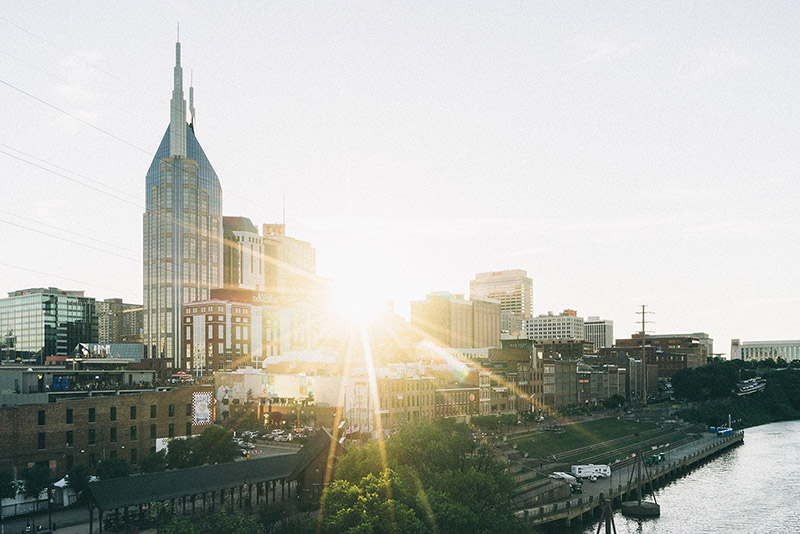
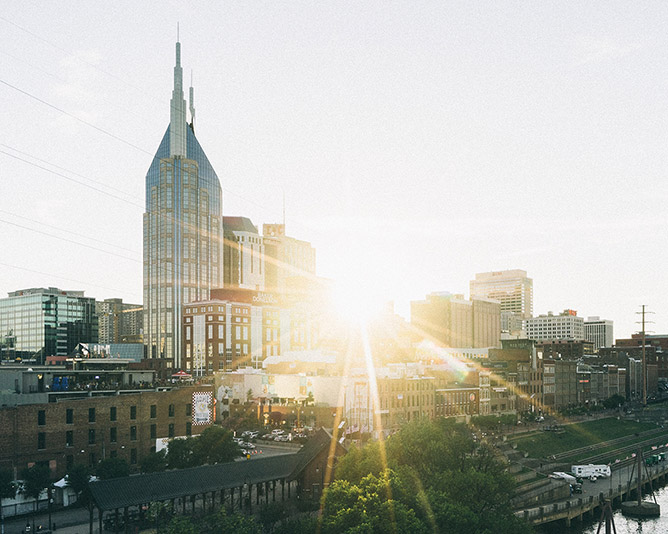
add media queries

diff --git a/index.html b/index.html
@@ -46,30 +46,31 @@
     </header>
 
     <section id="reasons">
-        <h3 class="left">Triage, reproduction, and remediation of customer-reported bugs</h3>
+        <div class="container">
+            <h3 class="left">Triage, reproduction, and remediation of customer-reported bugs</h3>
 
-        <h4 class="right">5+ years of experience in technical support, including prioritizing, troubleshooting, and resolving a wide variety of application issues. He's received training in troubleshooting theory, and is seasoned in reproducing errors and identifying root causes.</h4>
+            <h4 class="right">5+ years of experience in technical support, prioritizing, troubleshooting, and resolving a variety of application issues. He's been training in troubleshooting theory, and is adept at reproducing errors and finding root causes.</h4>
 
-        <h3 class="left">Documentation of steps to reproduce bugs and steps to remediate</h3>
+            <h3 class="left">Documentation of steps to reproduce bugs and steps to remediate</h3>
 
-        <h4 class="right">Worked on a pilot team testing new incident management software. Dave was responsible for reporting and cataloging numerous bugs including detailed steps to replicate the issue. He also made recommendations to streamline process and improve user experience.</h4>
+            <h4 class="right">Worked on a pilot team testing incident management software. Dave was responsible for reporting and cataloging numerous bugs including detailed steps to replicate the issue. He also made recommendations to streamline process and improve user experience.</h4>
 
-        <h3 class="left">Minimum 6 months experience in front-end development</h3>
+            <h3 class="left">Minimum 6 months experience in front-end development</h3>
 
-        <h4 class="right">Experience making websites for small businesses in a freelance capacity. Dave worked with HTML and CSS in publishing e-newsletters and maintaining websites for SOLID Nashville and NSAI.  He started studying JavaScript in early 2015.  He’s completed the Front-End Development curriculum at FreeCodeCamp.com, and a Microsoft certification in software development fundamentals.</h4>
+            <h4 class="right">Experience making websites for small businesses in a freelance capacity. Dave started working with HTML and CSS in 2006, publishing e-newsletters and maintaining websites for SOLID Nashville and NSAI.  He began studying JavaScript in early 2015.  He’s completed the Front-End Development curriculum at FreeCodeCamp.com, and a Microsoft certification in software development fundamentals.</h4>
 
-        <h3 class="left">API development and consumption</h3>
+            <h3 class="left">API development and consumption</h3>
 
-        <h4 class="right">Completed several projects for FreeCodeCamp that have consumed APIs including Wikipedia, Twitch.tv, Andruxnet, and Openweathermap.</h4>
+            <h4 class="right">Completed several projects for FreeCodeCamp that have consumed APIs including Wikipedia, Twitch.tv, Andruxnet, and Openweathermap.</h4>
 
-        <h3 class="left">A desire for learning, and passion for contributing</h3>
+            <h3 class="left">A desire for learning, and passion for contributing</h3>
 
-        <h4 class="right">Diligently studied web development in his free time, and is eager for more experience. Dave’s long term goals are to become a full stack developer and build modern web applications. He has consistently demonstrated contributions to organizations above and beyond his regular duties.</h4>
+            <h4 class="right">Diligently studied web development in his free time, and is eager for more experience. Dave’s long term goals are to become a full stack developer and build modern web applications. He has consistently demonstrated contributions to organizations above and beyond his regular duties.</h4>
 
-        <h3 class="left">The customer’s experience is at the heart of what we do</h3>
+            <h3 class="left">The customer’s experience is at the heart of what we do</h3>
 
-        <h4 class="right">Dave is passionate about providing a distinguished and memorable customer experience.  He has demonstrated the ability to de-escalate tempers, help users feel understood, and build trust between a wide customer base and brands like Verizon, AT&amp;T Wireless, and Asurion.</h4>
-                       
+            <h4 class="right">Dave is passionate about providing a distinguished and memorable customer experience.  He has demonstrated the ability to de-escalate tempers, help users feel understood, and build trust between a wide customer base and brands like Verizon, AT&amp;T Wireless, and Asurion.</h4>
+        </div>             
     </section>
 
     <!-- Triggers jquery header transition and provides space to scroll-->

diff --git a/styles/main.css b/styles/main.css
@@ -1,28 +1,21 @@
-/* HEADER STYLE */
-
-
-
-/* MATCH STYLE */
 
 body {
     margin: 0;
+    background-color: #acdbec;
 }
 
 .jumbo-image {
-    text-align: center;
     height: 80vh;
     margin-bottom: 0;
-    background-image: url(../img/nash_skyline_med.jpg);
     background-position: center center;
     background-repeat: no-repeat;
     background-attachment: fixed;
     background-size: cover;
-    background-color: #464646;
-
+    /* image url in media query section */
 }
 
 .title {
-    margin-top: 30vh;
+    text-align: center;    
 }
 
 header {
@@ -31,16 +24,17 @@ header {
     line-height: 1.4;    
     text-align: center;
     width: 100%;
+    height: 185px;
 }
 
 .header-sticky {
     position: fixed;
     z-index: 10;
-        top: 0;
+    top: 0;
 }
 
 #headline {
-    margin-top: 60px;
+    margin-top: 10vh;
     margin-bottom: 0;
     font-size: 48px;
     display: none;
@@ -49,6 +43,7 @@ header {
 #tagline {
     margin-top: 0;
     display: none;
+    font-size: 18px;
 }
 
 .circle {
@@ -69,20 +64,30 @@ img.emma, img.dave {
     margin: 10px 10px 0 10px;
 }
 
-.action-btn{
-    width: 275px;
-    margin: 15px auto;
+.action-btn {
     padding: 12px;
     display: none;
     background-color: #333;
     border: 1px solid #eee;
-    border-radius: 10px;
     color: #eee;
     font-size: 15px;
 }
 
-.action-btn:hover {
+a, .action-btn {
+    width: 275px;
+    margin: 15px auto;
+    border-radius: 10px;    
+}
+
+a {
+    display: block;
+    width: 275px;
+}
+
+.action-btn:hover, a:hover {
     background-color: #778;
+    text-decoration: none;
+    color: #eee;
 }
 
 #change {
@@ -92,23 +97,94 @@ img.emma, img.dave {
 }
 
 #reasons {
-    width: 92%;
     margin: 0 auto;
     margin-top: 0px;
 }
 
-#reasons .left {
+.left {
     text-align: left;
-    color: #57C5EC;
-    margin-right: 20%;
+    color: #2f4957;
 }
 
-#reasons .right {
+.right {
     text-align: right;
-    color: #BE3B39;
-    margin-left: 20%;
+    color: #bf0906;
+    margin-top: 20px;
+    margin-bottom: 40px;
 }
 
 #btm-spacer {
     height: 120vh;
+}
+
+/*==========  Media Queries  ==========*/
+
+/* Custom, iPhone Retina */ 
+@media only screen and (min-width : 320px) {
+
+    .jumbo-image {
+        background-image: url(../img/nash_skyline_small.jpg);
+    }
+
+    .title {
+        margin-top: 20vh;    
+    }
+
+    .left {
+        margin-right: 15%;
+    }    
+
+    .right {
+        margin-left: 15%;
+    }    
+}
+
+/* Extra Small Devices, Phones */ 
+/*@media only screen and (min-width : 480px) {
+
+}*/
+
+/* Small Devices, Tablets */
+@media only screen and (min-width : 768px) {
+
+    .jumbo-image {
+        background-image: url(../img/nash_skyline_med.jpg);
+    }
+
+    .title {
+        margin-top: 25vh;    
+    }
+
+    .left {
+        margin-right: 20%;
+    }    
+
+    .right {
+        margin-left: 20%;
+    }
+
+}
+
+/* Medium Devices, Desktops */
+/*@media only screen and (min-width : 992px) {
+
+}*/
+
+/* Large Devices, Wide Screens */
+@media only screen and (min-width : 1200px) {
+
+    .jumbo-image {
+        background-image: url(../img/nash_skyline_large.jpg);
+    }
+
+    .title {
+        margin-top: 30vh;    
+    }
+    .left {
+        margin-right: 25%;
+    }    
+
+    .right {
+        margin-left: 25%;
+    }    
 }

diff --git a/scripts/main.js b/scripts/main.js
@@ -41,7 +41,7 @@ $(document).ready(function(){
 
 				$('.emma').wrapAll('<div class="col-xs-6">');
 				$('.dave').wrapAll('<div class="col-xs-6">');
-				$('#match').css("height", "auto");
+				$('#match').css("height", "185px");
 				$('.caption').show();
 				$('#headline').hide();
 				$('#tagline').hide();
